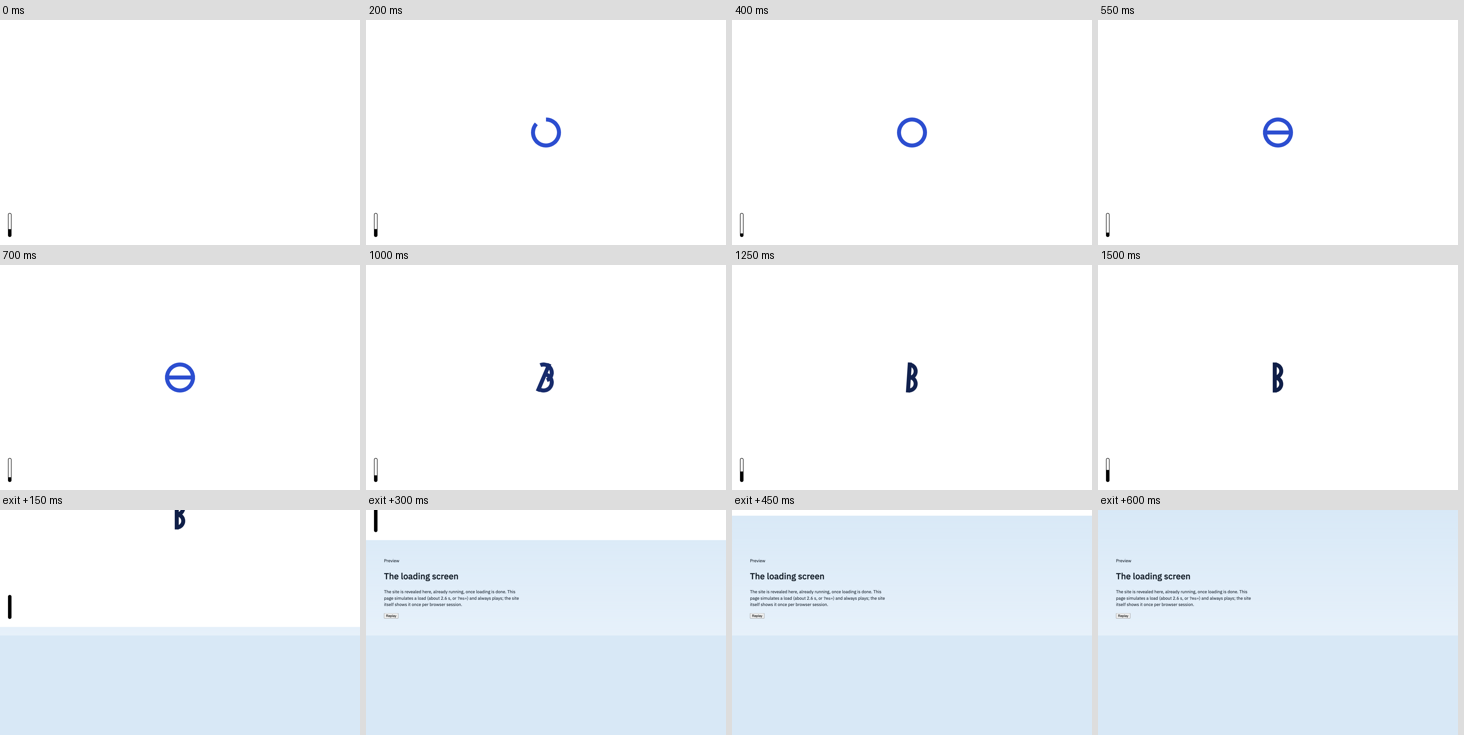
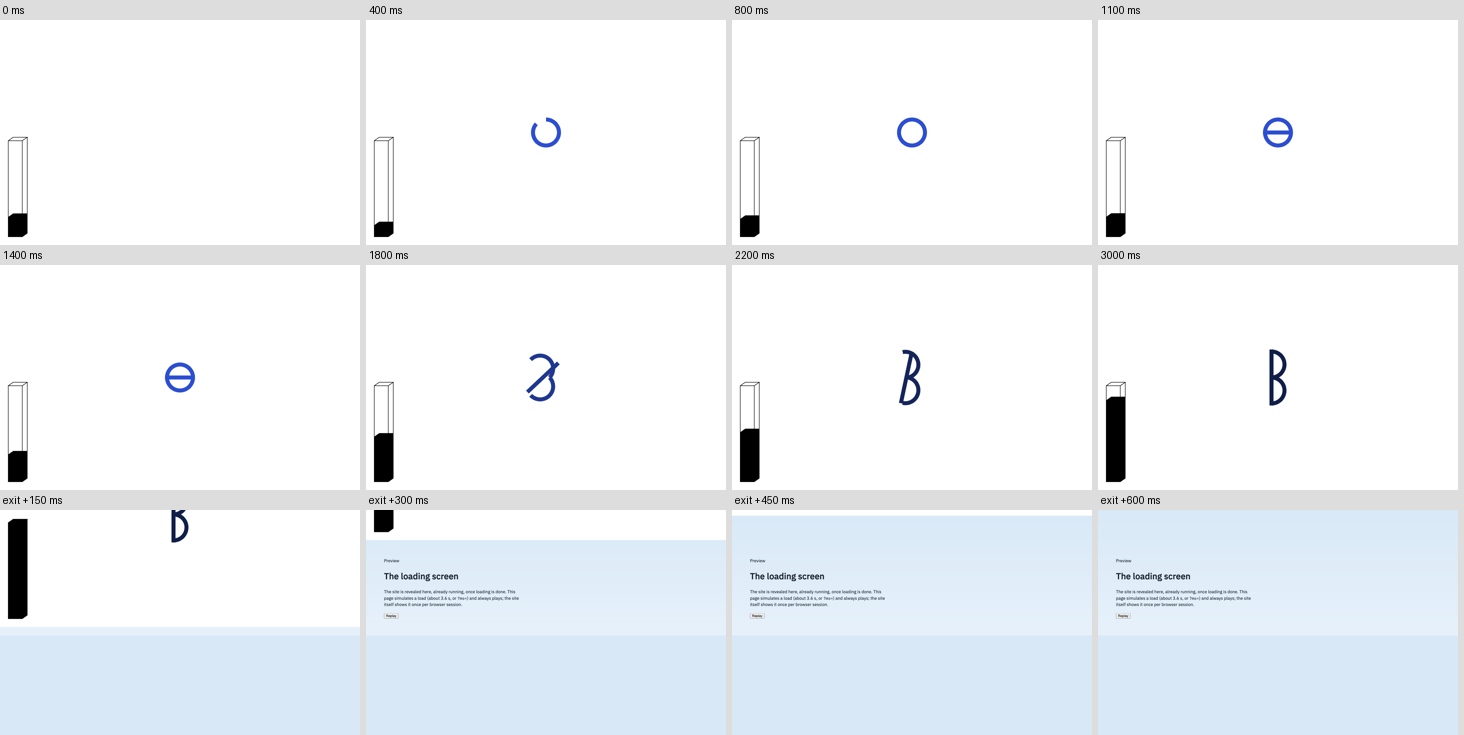
app/web loader: slower and a larger B. Every step twice as long, the B finished at 3.0 s (ring 0-800 ms, cut 800-1400, fold 1400-3000), so the site has more time to load; the exit stays 600 ms. The halves now turn a quarter each way about the ring's rightmost point and keep their size, a B 224 tall;

diff --git a/app/web/src/styles/loader.css b/app/web/src/styles/loader.css
@@ -1,53 +1,61 @@
-/* The loading screen (src/loader.ts): white, a ring that draws itself, is cut across, and folds into a B; a
-   cylinder bottom left that fills with what has really loaded. Every step on the site's curve. Drawn in SVG and
-   CSS. The mark's geometry, in its 160 x 160 box centred on (80, 80):
-   - the ring: radius 52 at the stroke's centre, 16 thick, so 120 across;
+/* The loading screen (src/loader.ts): white, a ring that draws itself, is cut across, and folds open into a B; a
+   box bottom left that fills with what has really loaded. Every step on the site's curve. Drawn in SVG and CSS.
+   The mark's geometry, in its 160 x 160 box centred on (80, 80):
+   - the ring: radius 52 at the stroke's centre, 16 thick, so 120 across; its rightmost point is (132, 80);
    - the cut: a line 120 long through the centre, edge to edge;
-   - the B: the top half turned a quarter clockwise and the bottom half a quarter the other way, each at half size
-     (radius 26) and moved to (67, 54) and (67, 106), so both bulge right; the cut turned upright at x 67, its ends
-     level with the bowls' outer tops (y 20 and 140). The stroke stays 16 (non-scaling) as the halves shrink. */
+   - the B: each half turns a quarter about the ring's rightmost point, the top one clockwise and the bottom one the
+     other way, keeping its size, so both bulge right, one above the other (y -24 to 80, 80 to 184); the cut turns
+     upright, grows to the B's full height (224, y -32 to 192) and moves to x 132, its spine. The whole mark slides
+     78 left meanwhile, so the finished B is centred where the ring was. The stroke stays 16 throughout. */
 .loader { position: fixed; inset: 0; z-index: 1000; display: grid; place-items: center; background: #ffffff; --ld-ease: cubic-bezier(.35, 0, 0, 1); }
 .loader .mark { width: 160px; height: 160px; overflow: visible; fill: none; stroke: currentColor; stroke-width: 16; color: #1f4fd8;
-  animation: ld-ink 800ms var(--ld-ease) 700ms both; }
+  animation: ld-ink 1600ms var(--ld-ease) 1400ms both; }
 .loader .mark path, .loader .mark line, .loader .mark circle { vector-effect: non-scaling-stroke; stroke-linecap: butt; }
+.loader .all { transform-box: view-box; animation: ld-centre 1600ms var(--ld-ease) 1400ms both; }
 
-/* 0-400 ms: the ring draws itself, clockwise from the top */
+/* 0-800 ms: the ring draws itself, clockwise from the top */
 .loader .ring { stroke-dasharray: 1 2; stroke-dashoffset: 1; transform-box: view-box; transform-origin: 80px 80px; transform: rotate(-90deg);
-  animation: ld-draw 400ms var(--ld-ease) both, ld-off 1ms linear 400ms both; }
-/* from 400 ms the ring is its two halves (the same pixels), so they can fold */
-.loader .half { opacity: 0; transform-box: view-box; transform-origin: 80px 80px; }
-.loader .half.ld-top { animation: ld-on 1ms linear 400ms both, ld-fold-top 800ms var(--ld-ease) 700ms both; }
-.loader .half.ld-bottom { animation: ld-on 1ms linear 400ms both, ld-fold-bottom 800ms var(--ld-ease) 700ms both; }
-/* 400-700 ms: the cut draws across, left to right; 700-1500 ms it turns upright and slides to the bowls' left edge */
+  animation: ld-draw 800ms var(--ld-ease) both, ld-off 1ms linear 800ms both; }
+/* from 800 ms the ring is its two halves (the same pixels), so they can turn */
+.loader .half { opacity: 0; transform-box: view-box; transform-origin: 132px 80px; }
+.loader .half.ld-top { animation: ld-on 1ms linear 800ms both, ld-fold-top 1600ms var(--ld-ease) 1400ms both; }
+.loader .half.ld-bottom { animation: ld-on 1ms linear 800ms both, ld-fold-bottom 1600ms var(--ld-ease) 1400ms both; }
+/* 800-1400 ms: the cut draws across, left to right; 1400-3000 ms it turns upright into the spine */
 .loader .cut { stroke-dasharray: 1 2; stroke-dashoffset: 1; transform-box: view-box; transform-origin: 80px 80px;
-  animation: ld-draw 300ms var(--ld-ease) 400ms both, ld-spine 800ms var(--ld-ease) 700ms both; }
+  animation: ld-draw 600ms var(--ld-ease) 800ms both, ld-spine 1600ms var(--ld-ease) 1400ms both, ld-solid 1ms linear 1400ms forwards; }
 
 @keyframes ld-draw { from { stroke-dashoffset: 1; } to { stroke-dashoffset: 0; } }
 @keyframes ld-off { to { opacity: 0; } }
+/* once drawn the cut is solid: its dash was measured on its first length, and it grows into the spine */
+@keyframes ld-solid { from { stroke-dasharray: none; } to { stroke-dasharray: none; } }
 @keyframes ld-on { from { opacity: 0; } to { opacity: 1; } }
-@keyframes ld-fold-top { from { transform: translate(0, 0) rotate(0deg) scale(1); } to { transform: translate(-13px, -26px) rotate(90deg) scale(0.5); } }
-@keyframes ld-fold-bottom { from { transform: translate(0, 0) rotate(0deg) scale(1); } to { transform: translate(-13px, 26px) rotate(-90deg) scale(0.5); } }
-@keyframes ld-spine { from { transform: translate(0, 0) rotate(0deg); } to { transform: translate(-13px, 0) rotate(-90deg); } }
+@keyframes ld-fold-top { from { transform: rotate(0deg); } to { transform: rotate(90deg); } }
+@keyframes ld-fold-bottom { from { transform: rotate(0deg); } to { transform: rotate(-90deg); } }
+@keyframes ld-spine { from { transform: translate(0, 0) rotate(0deg) scale(1, 1); } to { transform: translate(52px, 0) rotate(-90deg) scale(1.8667, 1); } }
+@keyframes ld-centre { from { transform: translate(0, 0); } to { transform: translate(-78px, 0); } }
 @keyframes ld-ink { from { color: #1f4fd8; } to { color: #0b1f4b; } }
 
-/* bottom left: an outlined tube that fills with solid black from the bottom, as much as has really loaded */
-.loader .tube { position: absolute; left: 32px; bottom: 32px; width: 14px; height: 96px; overflow: visible; }
-.loader .tube .wall { fill: none; stroke: #000000; stroke-width: 2; }
-.loader .tube .level { fill: #000000; transform-box: fill-box; transform-origin: 50% 100%; transform: scaleY(var(--ld-p, 0)); }
+/* bottom left: a box (a rectangular prism, its face 56 x 384, its depth drawn up and to the right), outlined with
+   sharp corners, filling with solid black from the bottom, as much as has really loaded; the fill's top is a level
+   surface across the box */
+.loader .tank { position: absolute; left: 32px; bottom: 32px; width: 78px; height: 400px; overflow: visible; }
+.loader .tank .edge { fill: none; stroke: #000000; stroke-width: 2; stroke-linejoin: miter; stroke-miterlimit: 10; }
+.loader .tank .level { fill: #000000; transform: translate(0, calc((1 - var(--ld-p, 0)) * 384px)); }
 
-/* leaving: the white screen, the B and the tube slide up off the page, revealing the site beneath */
+/* leaving: the white screen, the B and the box slide up off the page, revealing the site beneath */
 .loader.leaving { animation: ld-leave 600ms var(--ld-ease) both; pointer-events: none; }
 @keyframes ld-leave { from { transform: translate3d(0, 0, 0); } to { transform: translate3d(0, -100%, 0); } }
 
-/* reduced motion: a still navy B and the tube; then a plain cut to the site */
+/* reduced motion: a still navy B and the box; then a plain cut to the site */
 @media (prefers-reduced-motion: reduce) {
-  .loader .mark, .loader .ring, .loader .half, .loader .cut, .loader.leaving { animation: none; }
+  .loader .mark, .loader .all, .loader .ring, .loader .half, .loader .cut, .loader.leaving { animation: none; }
   .loader .mark { color: #0b1f4b; }
+  .loader .all { transform: translate(-78px, 0); }
   .loader .ring { opacity: 0; }
   .loader .half { opacity: 1; }
-  .loader .half.ld-top { transform: translate(-13px, -26px) rotate(90deg) scale(0.5); }
-  .loader .half.ld-bottom { transform: translate(-13px, 26px) rotate(-90deg) scale(0.5); }
-  .loader .cut { stroke-dashoffset: 0; transform: translate(-13px, 0) rotate(-90deg); }
+  .loader .half.ld-top { transform: rotate(90deg); }
+  .loader .half.ld-bottom { transform: rotate(-90deg); }
+  .loader .cut { stroke-dasharray: none; stroke-dashoffset: 0; transform: translate(52px, 0) rotate(-90deg) scale(1.8667, 1); }
 }
 
 /* the preview page (loader.html) only */

diff --git a/app/web/src/loader.ts b/app/web/src/loader.ts
@@ -1,24 +1,24 @@
 // The loading screen: white, a ring that draws itself, is cut across and folds into a B (src/styles/loader.css
-// holds the drawing and its timing), and an outlined tube bottom left that fills with solid black in proportion to
+// holds the drawing and its timing), and a box (a rectangular prism) bottom left that fills with solid black in proportion to
 // what has really loaded. The fill only ever rises and moves smoothly between updates. It always plays to the
-// finished B (1.5 s), holds the B still until loading is done, then slides the whole screen up (600 ms) to reveal
-// the site beneath. Shown once per browser session. Reduced motion: a still navy B and the tube, then a plain cut.
+// finished B (3 s), holds the B still until loading is done, then slides the whole screen up (600 ms) to reveal
+// the site beneath. Shown once per browser session. Reduced motion: a still navy B and the box, then a plain cut.
 import "./styles/loader.css";
 
 const SEEN = "qx-loader-seen";
-const FORMED_MS = 1500;
+const FORMED_MS = 3000;
 const reduce = matchMedia("(prefers-reduced-motion: reduce)").matches;
 
-const MARK = `<svg class="mark" viewBox="0 0 160 160" aria-hidden="true">
+const MARK = `<svg class="mark" viewBox="0 0 160 160" aria-hidden="true"><g class="all">
   <circle class="ring" cx="80" cy="80" r="52" pathLength="1"/>
   <g class="half ld-top"><path d="M 28 80 A 52 52 0 0 1 132 80"/></g>
   <g class="half ld-bottom"><path d="M 132 80 A 52 52 0 0 1 28 80"/></g>
   <line class="cut" x1="20" y1="80" x2="140" y2="80" pathLength="1"/>
-</svg>
-<svg class="tube" viewBox="0 0 14 96" aria-hidden="true">
-  <defs><clipPath id="ld-inside"><rect x="1" y="1" width="12" height="94" rx="6"/></clipPath></defs>
-  <g clip-path="url(#ld-inside)"><rect class="level" x="0" y="0" width="14" height="96"/></g>
-  <rect class="wall" x="1" y="1" width="12" height="94" rx="6"/>
+</g></svg>
+<svg class="tank" viewBox="-1 -15 78 400" aria-hidden="true">
+  <defs><clipPath id="ld-box"><polygon points="0,0 20,-14 76,-14 76,370 56,384 0,384"/></clipPath></defs>
+  <g clip-path="url(#ld-box)"><polygon class="level" points="0,0 20,-14 76,-14 76,520 0,520"/></g>
+  <path class="edge" d="M 0 0 H 56 V 384 H 0 Z M 0 0 L 20 -14 H 76 L 56 0 M 76 -14 V 370 L 56 384"/>
 </svg>`;
 
 export class Loader {
@@ -41,7 +41,7 @@ export class Loader {
     this.full = new Promise((r) => { this.filled = r; });
   }
 
-  /** what has really loaded, 0-1; the tube never falls back */
+  /** what has really loaded, 0-1; the box never empties back */
   progress(p: number) {
     this.target = Math.max(this.target, Math.min(1, Math.max(0, p)));
     this.el.setAttribute("aria-valuenow", String(Math.round(this.target * 100)));
@@ -59,7 +59,7 @@ export class Loader {
     if (this.shown < this.target) this.raf = requestAnimationFrame(this.tick);
   };
 
-  /** loading is complete: once the B has formed and the tube is full, slide the screen away */
+  /** loading is complete: once the B has formed and the box is full, slide the screen away */
   async finish(): Promise<void> {
     this.progress(1);
     await Promise.all([this.formed, this.full]);

diff --git a/app/web/loader.html b/app/web/loader.html
@@ -12,7 +12,7 @@
 <main id="main" class="loader-preview">
   <p class="k">Preview</p>
   <h1>The loading screen</h1>
-  <p>The site is revealed here, already running, once loading is done. This page simulates a load (about 2.6 s, or <code>?ms=</code>) and always plays; the site itself shows it once per browser session.</p>
+  <p>The site is revealed here, already running, once loading is done. This page simulates a load (about 3.6 s, or <code>?ms=</code>) and always plays; the site itself shows it once per browser session.</p>
   <p><button type="button" id="replay">Replay</button></p>
 </main>
 </body>

diff --git a/app/web/src/pages/loader-preview.ts b/app/web/src/pages/loader-preview.ts
@@ -4,7 +4,7 @@ import "../common";
 import "../styles/docs.css";
 import { Loader } from "../loader";
 
-const ms = Number(new URLSearchParams(location.search).get("ms") ?? 2600);
+const ms = Number(new URLSearchParams(location.search).get("ms") ?? 3600);
 // what has "loaded" by time t (ms): bursts and stalls, as a real load is
 const STEPS: [number, number][] = [[0, 0], [0.08, 0.1], [0.2, 0.18], [0.35, 0.22], [0.5, 0.47], [0.62, 0.52], [0.8, 0.83], [0.92, 0.9], [1, 1]];
 const loaded = (t: number) => {
